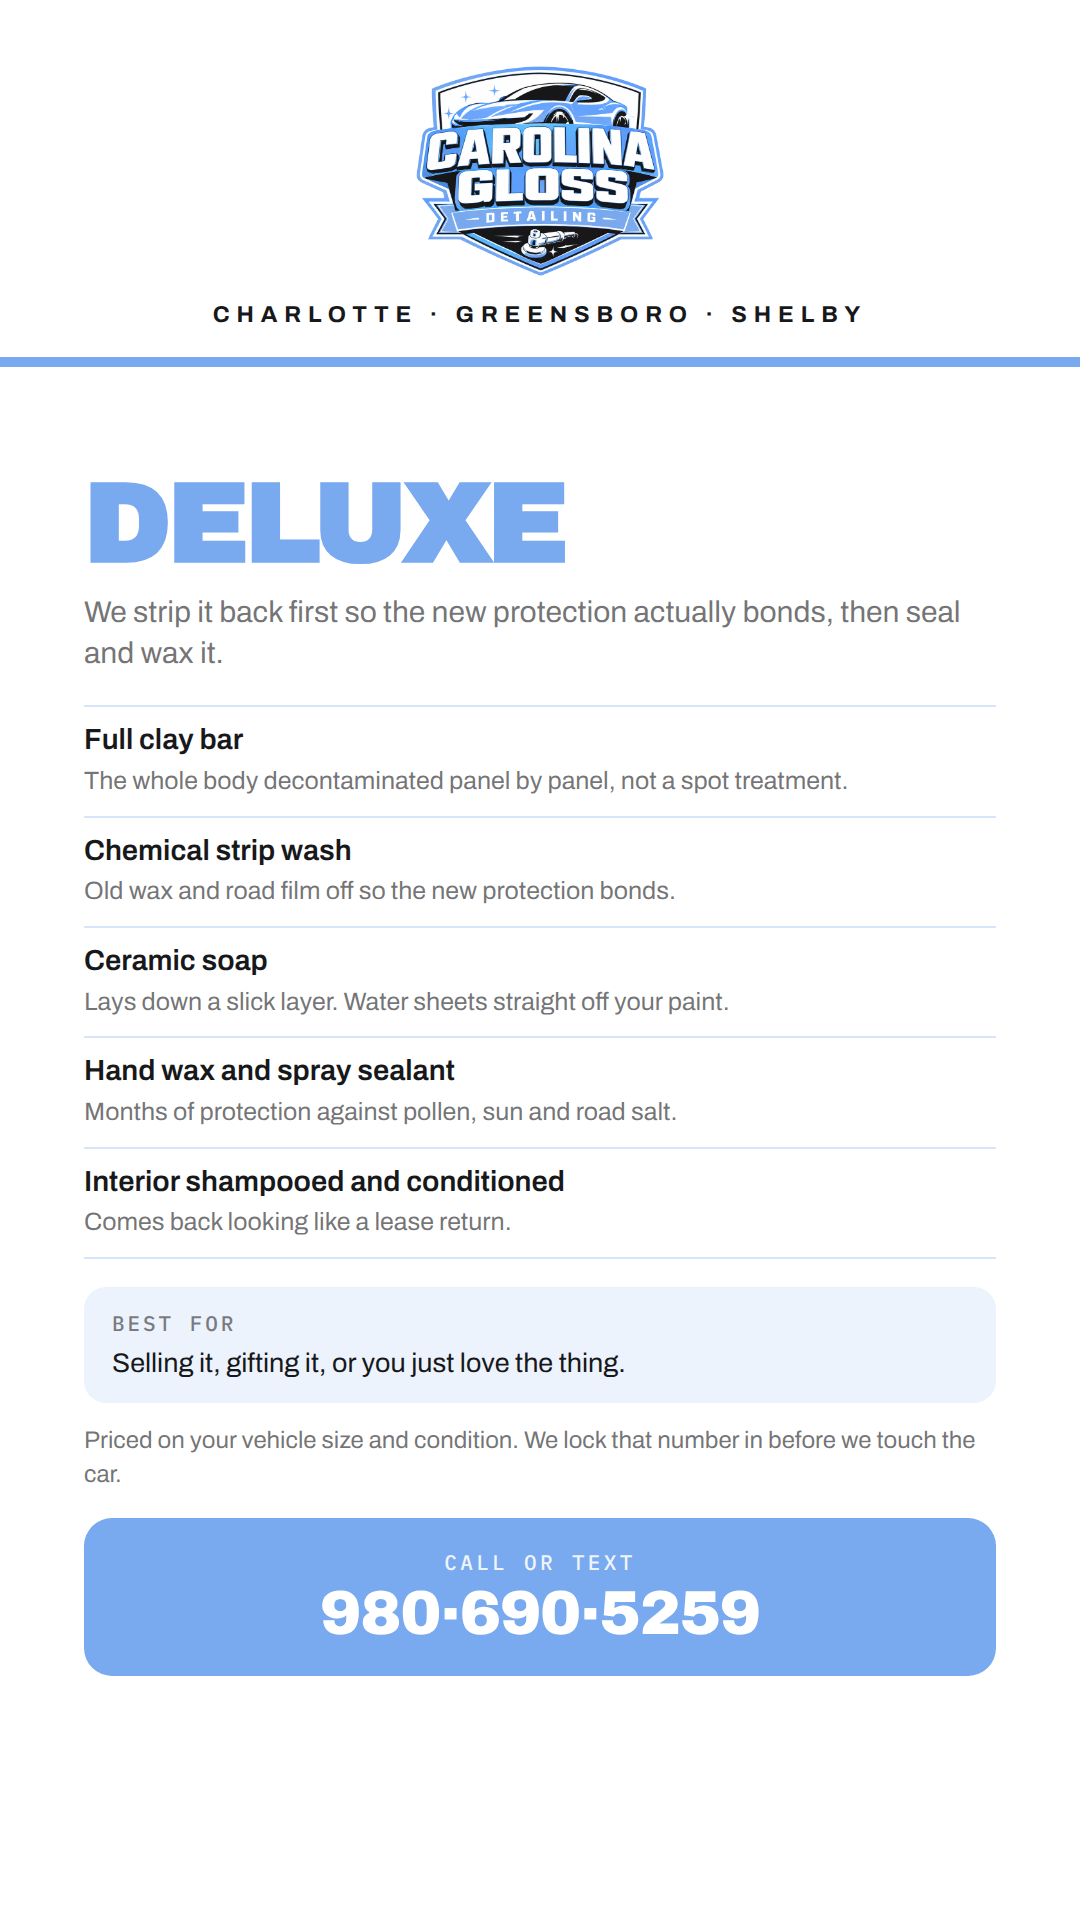
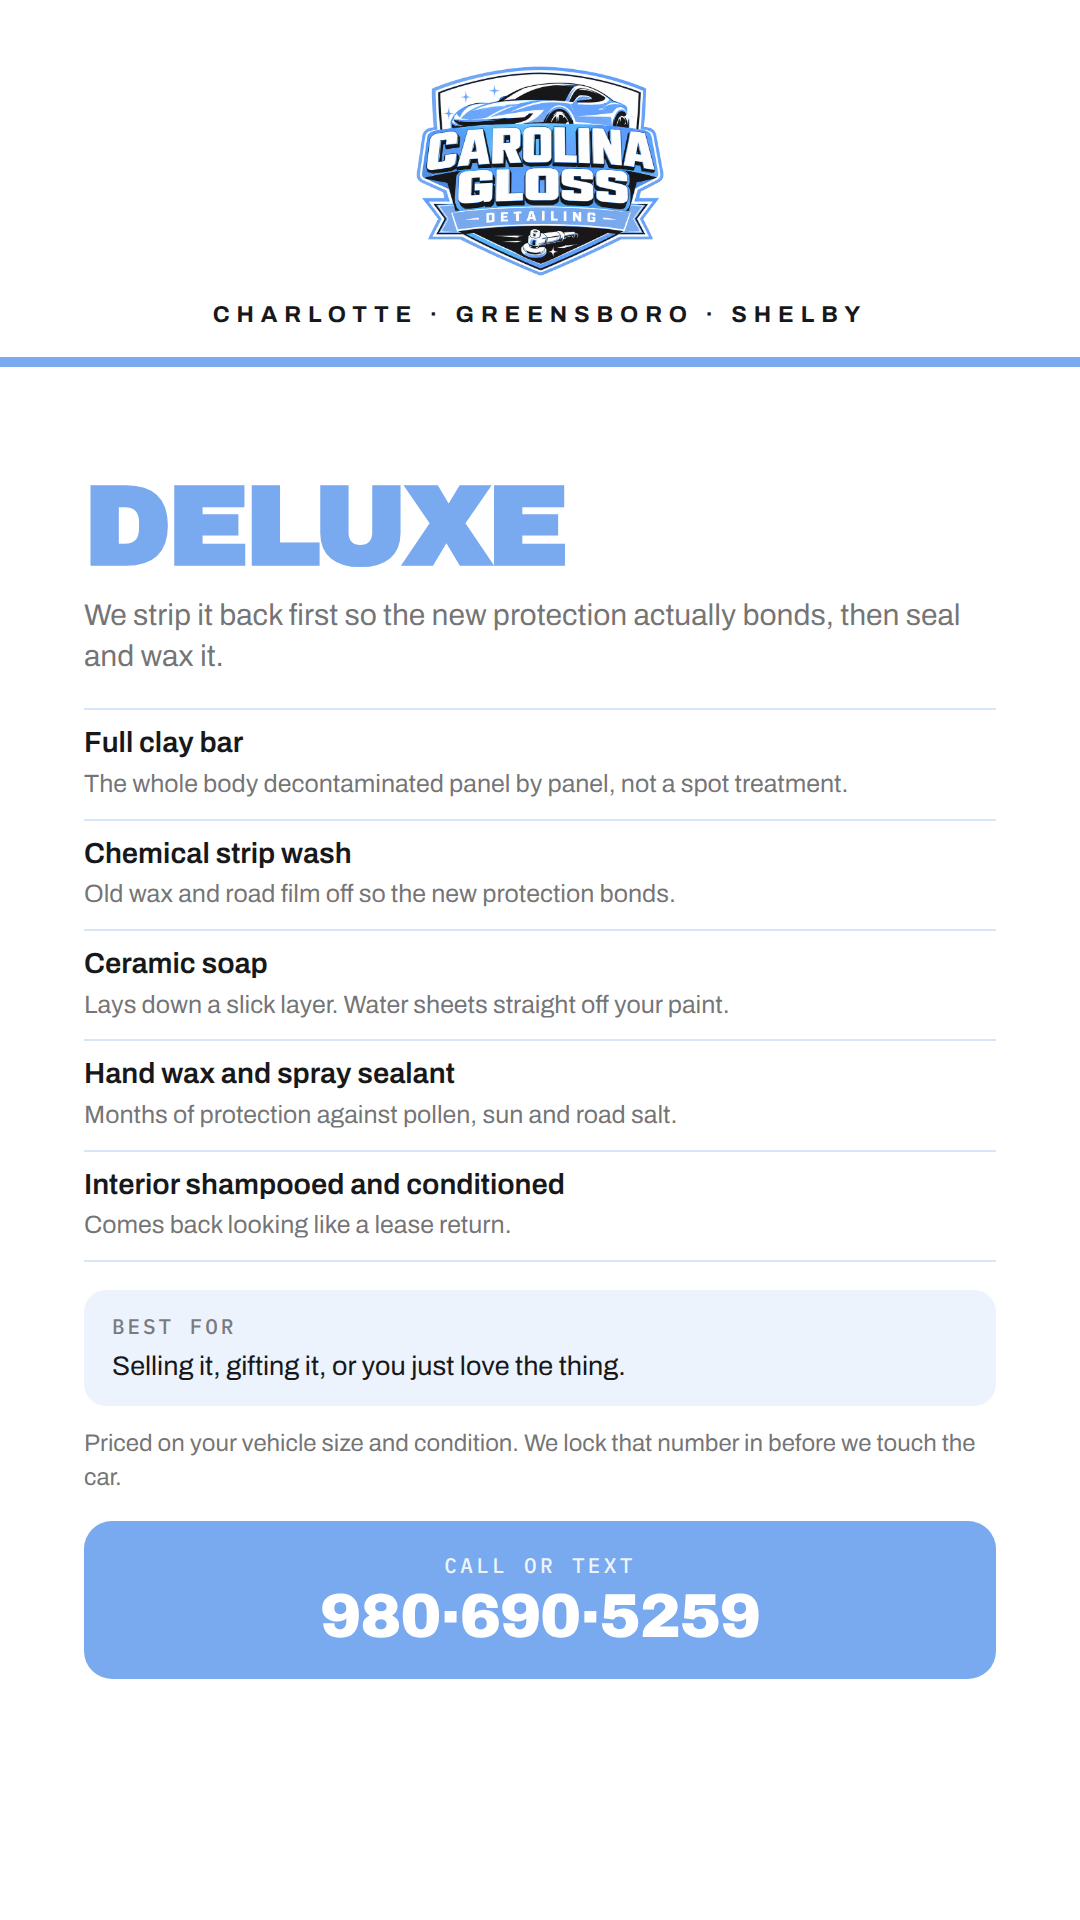
Make Most Popular a gold star badge
Gold reads as a seal in a way the blue pill did not, and it no longer
competes with the blue package name sitting right under it. The badge is
the only place gold appears. The eyebrow row grew to 46px so the taller
badge does not push Gloss out of alignment with the other two frames.

Claude-Session: https://claude.ai/code/session_016b3V5EjCTmSZMCSHy3XdSF

diff --git a/design/story-highlights/Story Highlights - Services.dc.html b/design/story-highlights/Story Highlights - Services.dc.html
@@ -31,7 +31,7 @@
       </div>
       <div style="flex:0 0 auto;height:10px;background:#79A9EE;"></div>
       <div style="flex:1 1 auto;padding:44px 84px 0;box-sizing:border-box;display:flex;flex-direction:column;">
-        <div style="min-height:43px;display:flex;align-items:center;"></div>
+        <div style="min-height:46px;display:flex;align-items:center;"></div>
         <h1 style="margin:20px 0 0;font-family:'Archivo Black',Helvetica,sans-serif;font-size:112px;line-height:0.9;letter-spacing:-0.03em;color:#79A9EE;text-transform:uppercase;">Standard</h1>
         <p style="margin:18px 0 0;font:400 30px/1.38 'Archivo',sans-serif;color:rgba(23,24,26,0.62);text-wrap:pretty;">A full hand wash outside and a proper clean inside. No machines, no brushes, no shortcuts.</p>
         <div style="margin-top:30px;"><div style="padding:17px 0;border-top:2px solid #D7E5F8;"><div style="font:600 29px/1.2 'Archivo',sans-serif;color:#17181A;">Hand wash, top to bottom</div><div style="margin-top:6px;font:400 25px/1.34 'Archivo',sans-serif;color:rgba(23,24,26,0.62);">Two mitts and clean water. No brushes, no swirl marks.</div></div><div style="padding:17px 0;border-top:2px solid #D7E5F8;"><div style="font:600 29px/1.2 'Archivo',sans-serif;color:#17181A;">Wheels, tires and trim</div><div style="margin-top:6px;font:400 25px/1.34 'Archivo',sans-serif;color:rgba(23,24,26,0.62);">Brake dust out of the barrels, trim back to black.</div></div><div style="padding:17px 0;border-top:2px solid #D7E5F8;"><div style="font:600 29px/1.2 'Archivo',sans-serif;color:#17181A;">Full interior vacuum</div><div style="margin-top:6px;font:400 25px/1.34 'Archivo',sans-serif;color:rgba(23,24,26,0.62);">Seats, rails, under the mats, and the trunk.</div></div><div style="padding:17px 0;border-top:2px solid #D7E5F8;"><div style="font:600 29px/1.2 'Archivo',sans-serif;color:#17181A;">Glass, inside and out</div><div style="margin-top:6px;font:400 25px/1.34 'Archivo',sans-serif;color:rgba(23,24,26,0.62);">Streak free on both sides. You notice it driving at night.</div></div><div style="padding:17px 0;border-top:2px solid #D7E5F8;border-bottom:2px solid #D7E5F8;"><div style="font:600 29px/1.2 'Archivo',sans-serif;color:#17181A;">Vinyl sanitized, leather refreshed</div><div style="margin-top:6px;font:400 25px/1.34 'Archivo',sans-serif;color:rgba(23,24,26,0.62);">Dash, doors, console and every vent wiped down.</div></div></div>
@@ -59,7 +59,7 @@
       </div>
       <div style="flex:0 0 auto;height:10px;background:#79A9EE;"></div>
       <div style="flex:1 1 auto;padding:44px 84px 0;box-sizing:border-box;display:flex;flex-direction:column;">
-        <div style="min-height:43px;display:flex;align-items:center;"><div style="flex:0 0 auto;background:#79A9EE;color:#17181A;border-radius:999px;padding:9px 20px;font:700 21px 'Archivo',sans-serif;letter-spacing:0.08em;">MOST POPULAR</div></div>
+        <div style="min-height:46px;display:flex;align-items:center;"><div style="flex:0 0 auto;display:inline-flex;align-items:center;gap:10px;background:#E8B33F;color:#17181A;border:3px solid #B2822A;border-radius:999px;padding:8px 22px 8px 18px;font:700 22px 'Archivo',sans-serif;letter-spacing:0.08em;"><span style="font-size:24px;line-height:1;">★</span>MOST POPULAR</div></div>
         <h1 style="margin:20px 0 0;font-family:'Archivo Black',Helvetica,sans-serif;font-size:112px;line-height:0.9;letter-spacing:-0.03em;color:#79A9EE;text-transform:uppercase;">Gloss</h1>
         <p style="margin:18px 0 0;font:400 30px/1.38 'Archivo',sans-serif;color:rgba(23,24,26,0.62);text-wrap:pretty;">Everything in Standard, then two steps that change how the car actually feels.</p>
         <div style="margin-top:30px;"><div style="padding:17px 0;border-top:2px solid #D7E5F8;"><div style="font:600 29px/1.2 'Archivo',sans-serif;color:#17181A;">Clay bar</div><div style="margin-top:6px;font:400 25px/1.34 'Archivo',sans-serif;color:rgba(23,24,26,0.62);">Pulls the grit washing cannot reach. Run your hand over the hood after.</div></div><div style="padding:17px 0;border-top:2px solid #D7E5F8;"><div style="font:600 29px/1.2 'Archivo',sans-serif;color:#17181A;">Hot water extraction</div><div style="margin-top:6px;font:400 25px/1.34 'Archivo',sans-serif;color:rgba(23,24,26,0.62);">Coffee, dog, kids, gym bag. Gone, not covered up.</div></div><div style="padding:17px 0;border-top:2px solid #D7E5F8;"><div style="font:600 29px/1.2 'Archivo',sans-serif;color:#17181A;">Two bucket wash</div><div style="margin-top:6px;font:400 25px/1.34 'Archivo',sans-serif;color:rgba(23,24,26,0.62);">Dirt goes in its own bucket, never back onto your paint.</div></div><div style="padding:17px 0;border-top:2px solid #D7E5F8;"><div style="font:600 29px/1.2 'Archivo',sans-serif;color:#17181A;">Leather and vinyl conditioned</div><div style="margin-top:6px;font:400 25px/1.34 'Archivo',sans-serif;color:rgba(23,24,26,0.62);">So it stops drying out and cracking in the Carolina sun.</div></div><div style="padding:17px 0;border-top:2px solid #D7E5F8;border-bottom:2px solid #D7E5F8;"><div style="font:600 29px/1.2 'Archivo',sans-serif;color:#17181A;">Wheels and tires, second pass</div><div style="margin-top:6px;font:400 25px/1.34 'Archivo',sans-serif;color:rgba(23,24,26,0.62);">Faces, barrels and lug seats done properly, then dressed.</div></div></div>
@@ -87,7 +87,7 @@
       </div>
       <div style="flex:0 0 auto;height:10px;background:#79A9EE;"></div>
       <div style="flex:1 1 auto;padding:44px 84px 0;box-sizing:border-box;display:flex;flex-direction:column;">
-        <div style="min-height:43px;display:flex;align-items:center;"></div>
+        <div style="min-height:46px;display:flex;align-items:center;"></div>
         <h1 style="margin:20px 0 0;font-family:'Archivo Black',Helvetica,sans-serif;font-size:112px;line-height:0.9;letter-spacing:-0.03em;color:#79A9EE;text-transform:uppercase;">Deluxe</h1>
         <p style="margin:18px 0 0;font:400 30px/1.38 'Archivo',sans-serif;color:rgba(23,24,26,0.62);text-wrap:pretty;">We strip it back first so the new protection actually bonds, then seal and wax it.</p>
         <div style="margin-top:30px;"><div style="padding:17px 0;border-top:2px solid #D7E5F8;"><div style="font:600 29px/1.2 'Archivo',sans-serif;color:#17181A;">Full clay bar</div><div style="margin-top:6px;font:400 25px/1.34 'Archivo',sans-serif;color:rgba(23,24,26,0.62);">The whole body decontaminated panel by panel, not a spot treatment.</div></div><div style="padding:17px 0;border-top:2px solid #D7E5F8;"><div style="font:600 29px/1.2 'Archivo',sans-serif;color:#17181A;">Chemical strip wash</div><div style="margin-top:6px;font:400 25px/1.34 'Archivo',sans-serif;color:rgba(23,24,26,0.62);">Old wax and road film off so the new protection bonds.</div></div><div style="padding:17px 0;border-top:2px solid #D7E5F8;"><div style="font:600 29px/1.2 'Archivo',sans-serif;color:#17181A;">Ceramic soap</div><div style="margin-top:6px;font:400 25px/1.34 'Archivo',sans-serif;color:rgba(23,24,26,0.62);">Lays down a slick layer. Water sheets straight off your paint.</div></div><div style="padding:17px 0;border-top:2px solid #D7E5F8;"><div style="font:600 29px/1.2 'Archivo',sans-serif;color:#17181A;">Hand wax and spray sealant</div><div style="margin-top:6px;font:400 25px/1.34 'Archivo',sans-serif;color:rgba(23,24,26,0.62);">Months of protection against pollen, sun and road salt.</div></div><div style="padding:17px 0;border-top:2px solid #D7E5F8;border-bottom:2px solid #D7E5F8;"><div style="font:600 29px/1.2 'Archivo',sans-serif;color:#17181A;">Interior shampooed and conditioned</div><div style="margin-top:6px;font:400 25px/1.34 'Archivo',sans-serif;color:rgba(23,24,26,0.62);">Comes back looking like a lease return.</div></div></div>

diff --git a/design/story-highlights/build.py b/design/story-highlights/build.py
@@ -22,6 +22,7 @@ BLUE = "#79A9EE"         # logo Carolina blue
 TINT = "#EDF3FD"         # BLUE washed into white, for cards
 RULE = "#D7E5F8"         # BLUE washed into white, for dividers
 MUTED = "rgba(23,24,26,0.62)"   # the same black, stepped back
+GOLD, GOLD_EDGE = "#E8B33F", "#B2822A"   # Most Popular badge only
 
 PHONE = "980\u00b7690\u00b75259"
 CITIES = "CHARLOTTE \u00b7 GREENSBORO \u00b7 SHELBY"
@@ -91,9 +92,11 @@ def row_html(title, desc, last):
 
 
 def page(pkg, logo_uri, faces):
-    pill = ('<div style="flex:0 0 auto;background:{blue};color:{ink};border-radius:999px;'
-            'padding:9px 20px;font:700 21px Archivo,sans-serif;letter-spacing:0.08em;">'
-            'MOST POPULAR</div>').format(blue=BLUE, ink=INK) if pkg["popular"] else ""
+    pill = ('<div style="flex:0 0 auto;display:inline-flex;align-items:center;gap:10px;'
+            'background:{gold};color:{ink};border:3px solid {edge};border-radius:999px;'
+            'padding:8px 22px 8px 18px;font:700 22px Archivo,sans-serif;letter-spacing:0.08em;">'
+            '<span style="font-size:24px;line-height:1;">\u2605</span>MOST POPULAR</div>'
+            ).format(gold=GOLD, edge=GOLD_EDGE, ink=INK) if pkg["popular"] else ""
     rows = "".join(row_html(t, d, i == len(pkg["rows"]) - 1)
                    for i, (t, d) in enumerate(pkg["rows"]))
     return """<!doctype html><html><head><meta charset="utf-8"><style>
@@ -111,7 +114,7 @@ body{{width:1080px;height:1920px;overflow:hidden;background:#fff;
  letter-spacing:0.3em;color:{ink};}}
 .bar{{flex:0 0 auto;height:10px;background:{blue};}}
 .body{{flex:1 1 auto;padding:44px 84px 0;display:flex;flex-direction:column;}}
-.eyebrow{{min-height:43px;display:flex;align-items:center;}}
+.eyebrow{{min-height:46px;display:flex;align-items:center;}}
 h1{{margin:20px 0 0;font-family:'Archivo Black',Helvetica,sans-serif;font-size:112px;
  line-height:0.9;letter-spacing:-0.03em;color:{blue};text-transform:uppercase;}}
 .sub{{margin:18px 0 0;font:400 30px/1.38 Archivo,sans-serif;color:{muted};}}
@@ -193,9 +196,11 @@ def main():
 # additionally accepts a real photo behind a dark scrim once the client has one.
 
 def canvas_section(pkg, idx):
-    pill = ('<div style="flex:0 0 auto;background:%s;color:%s;border-radius:999px;'
-            'padding:9px 20px;font:700 21px \'Archivo\',sans-serif;letter-spacing:0.08em;">'
-            'MOST POPULAR</div>' % (BLUE, INK)) if pkg["popular"] else ""
+    pill = ('<div style="flex:0 0 auto;display:inline-flex;align-items:center;gap:10px;'
+            'background:%s;color:%s;border:3px solid %s;border-radius:999px;'
+            'padding:8px 22px 8px 18px;font:700 22px \'Archivo\',sans-serif;letter-spacing:0.08em;">'
+            '<span style="font-size:24px;line-height:1;">\u2605</span>MOST POPULAR</div>'
+            % (GOLD, INK, GOLD_EDGE)) if pkg["popular"] else ""
     rows = []
     for i, (t, d) in enumerate(pkg["rows"]):
         edge = "border-bottom:2px solid %s;" % RULE if i == len(pkg["rows"]) - 1 else ""
@@ -216,7 +221,7 @@ def canvas_section(pkg, idx):
       </div>
       <div style="flex:0 0 auto;height:10px;background:{blue};"></div>
       <div style="flex:1 1 auto;padding:44px 84px 0;box-sizing:border-box;display:flex;flex-direction:column;">
-        <div style="min-height:43px;display:flex;align-items:center;">{pill}</div>
+        <div style="min-height:46px;display:flex;align-items:center;">{pill}</div>
         <h1 style="margin:20px 0 0;font-family:'Archivo Black',Helvetica,sans-serif;font-size:112px;line-height:0.9;letter-spacing:-0.03em;color:{blue};text-transform:uppercase;">{title}</h1>
         <p style="margin:18px 0 0;font:400 30px/1.38 'Archivo',sans-serif;color:{muted};text-wrap:pretty;">{sub}</p>
         <div style="margin-top:30px;">{rows}</div>

diff --git a/design/story-highlights/COPY.md b/design/story-highlights/COPY.md
@@ -63,7 +63,8 @@ Sampled from the pixels of `assets/logo.png`. Three colors, nothing else.
 |---|---|---|
 | White | `#FFFFFF` | the ground everywhere, and the type inside the blue CTA |
 | Black | `#17181A` | body type. Neutral, no blue cast |
-| Carolina blue | `#79A9EE` | 35% of the crest. Package name, CTA block, divider bar, pills |
+| Carolina blue | `#79A9EE` | 35% of the crest. Package name, CTA block, divider bar |
+| Gold | `#E8B33F` / `#B2822A` edge | the Most Popular badge on Gloss, and nowhere else |
 
 `#EDF3FD` and `#D7E5F8` are that same blue washed into white for the card and the
 dividers. The blue is too light for small text on white, so it only ever appears as a
